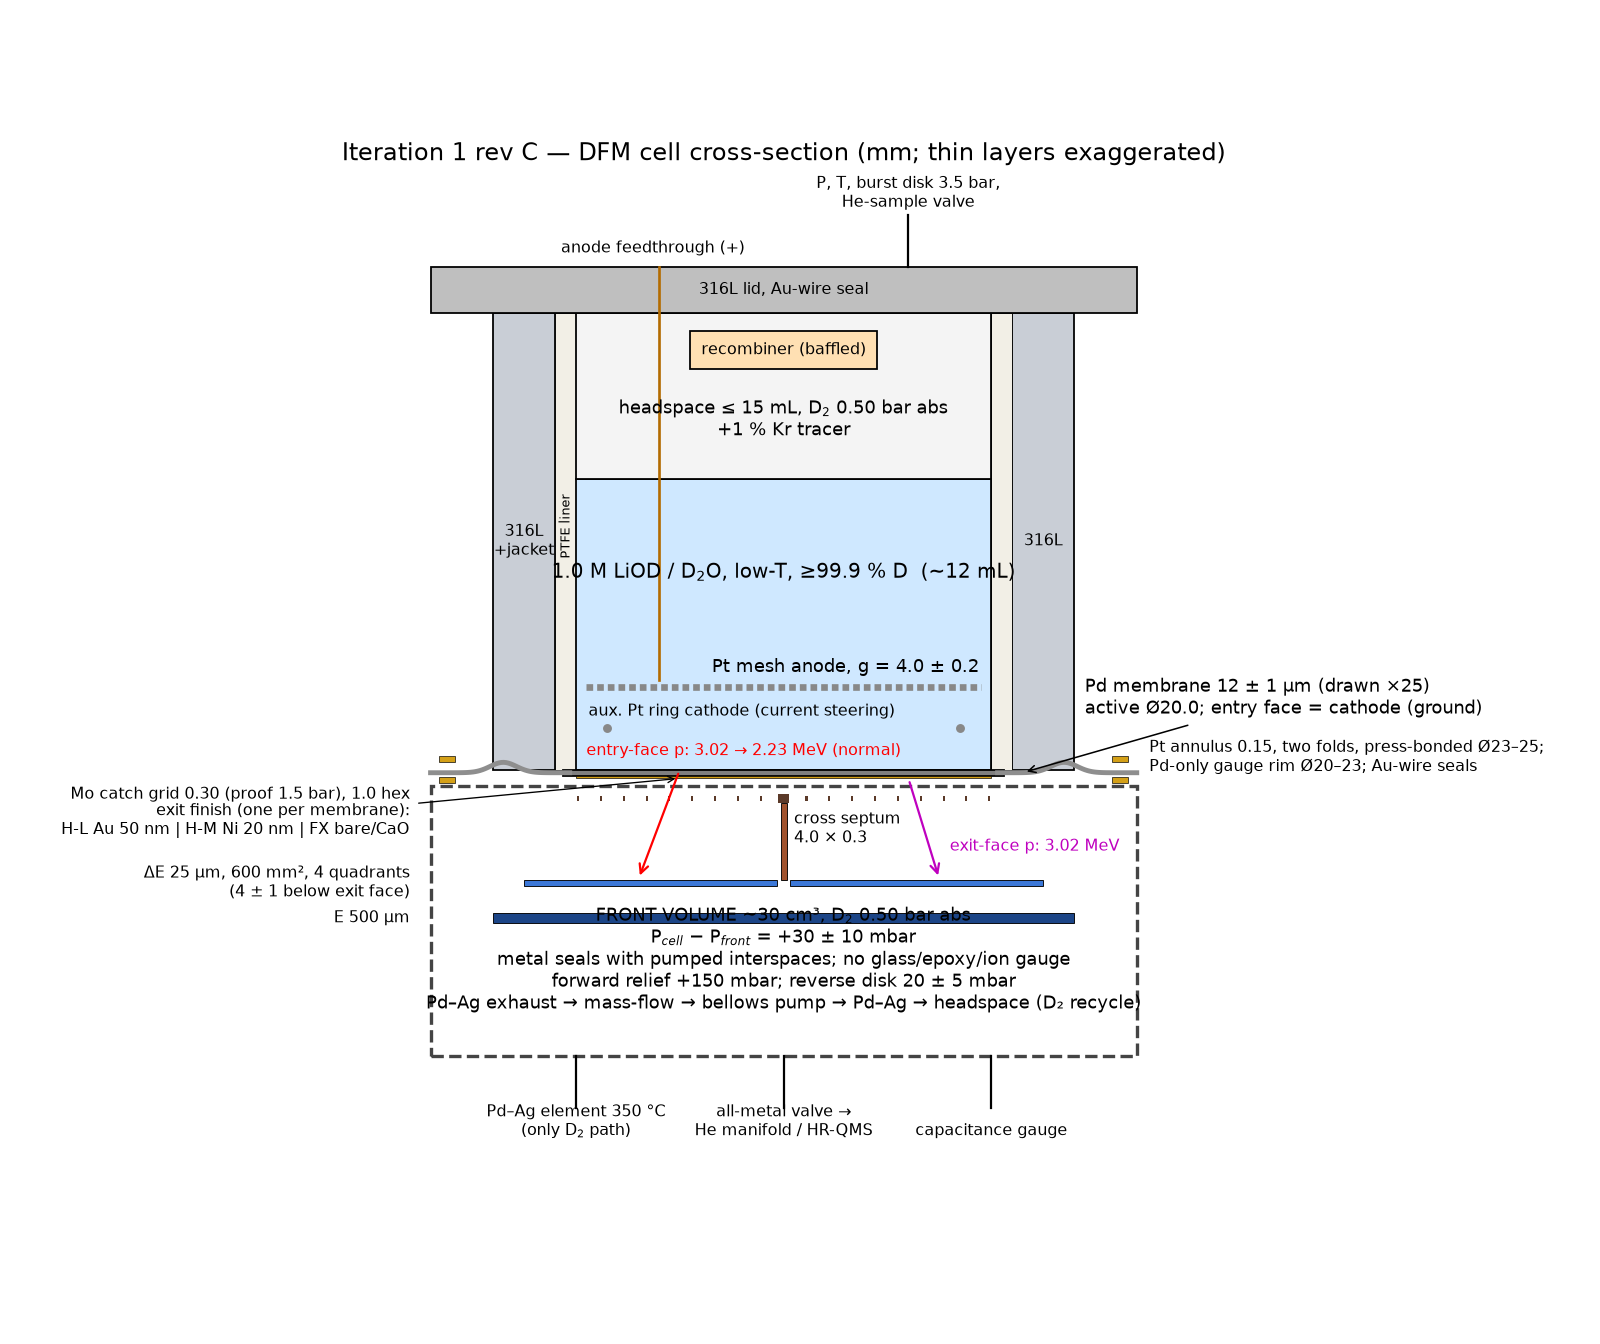
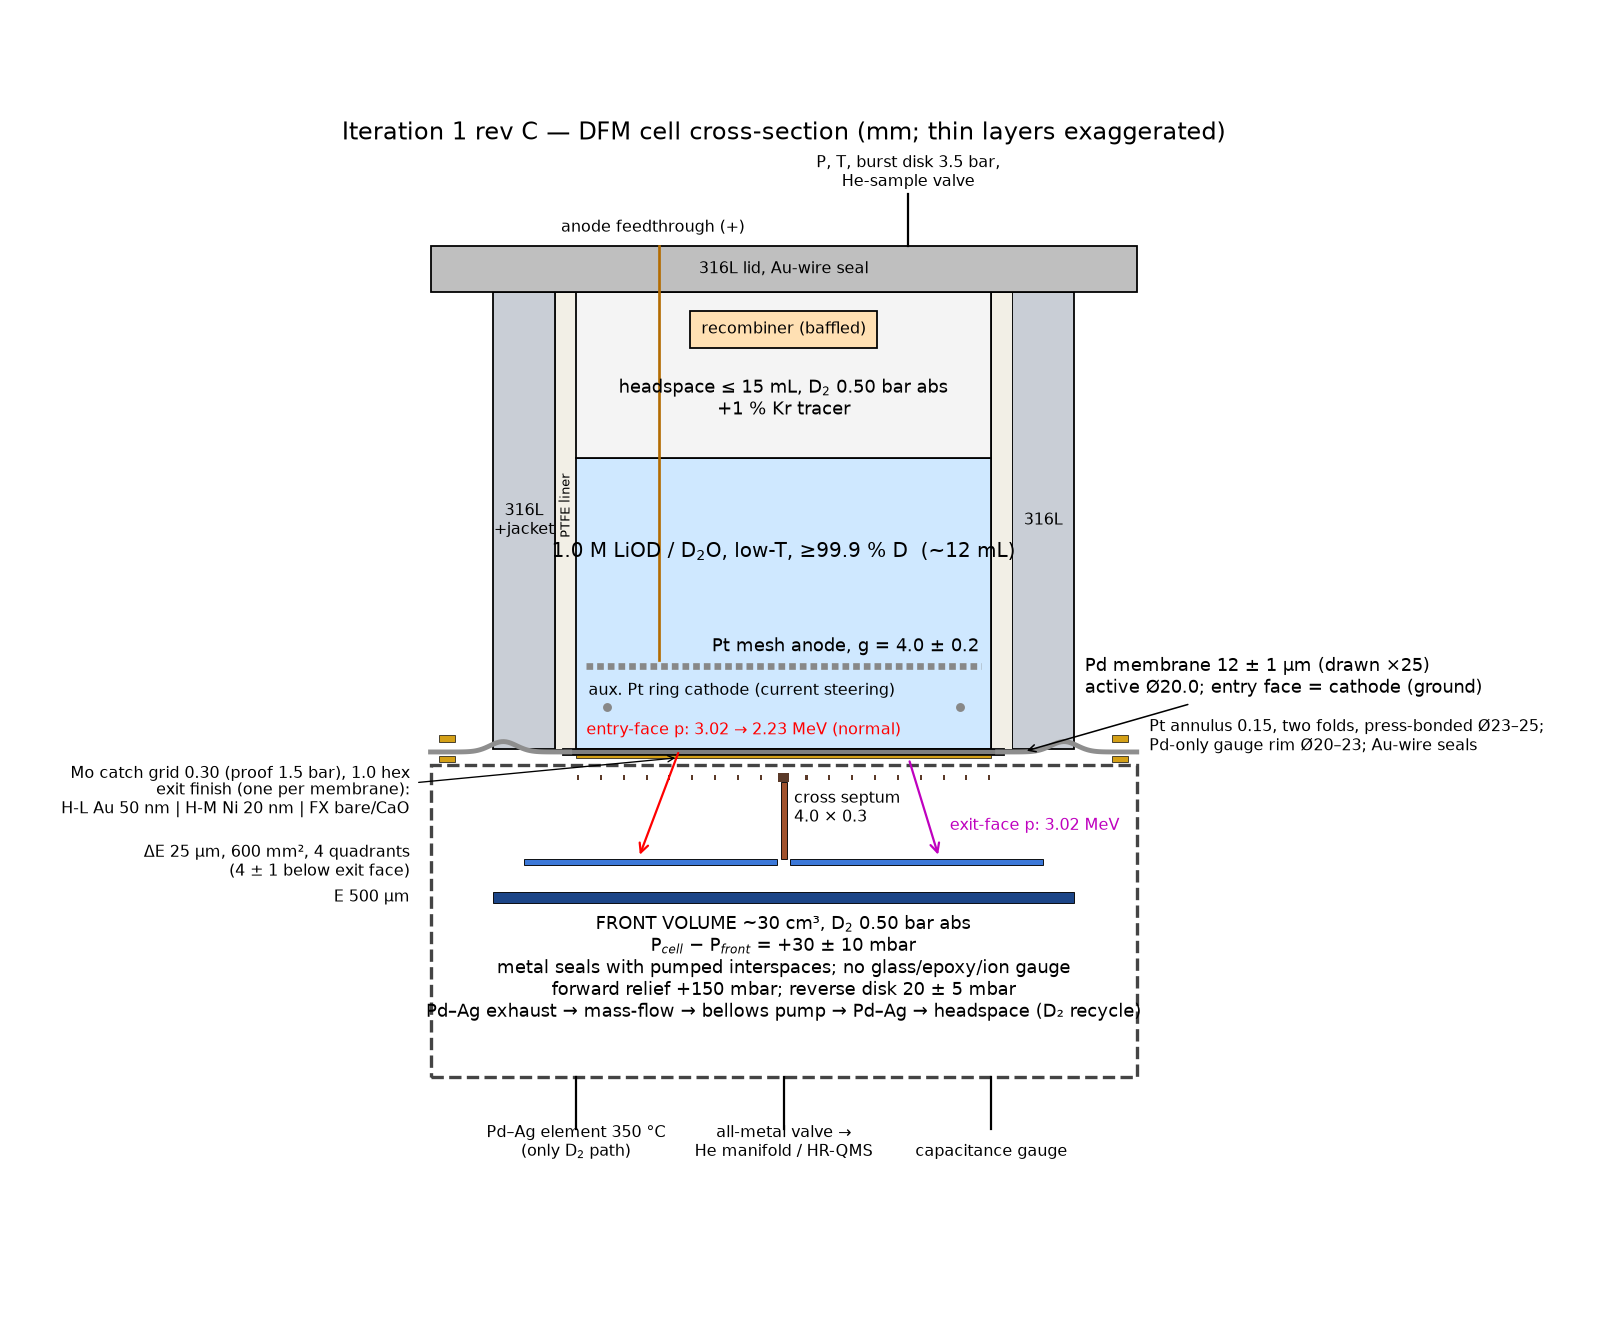
Drawing: clear front-volume label from detector
Claude-Session: https://claude.ai/code/session_01UhtcJJuepH5roxPVCdThz4

Changed region(s): [[0.0312, 0.4688, 0.9688, 0.875], [0.2188, 0.0938, 0.7812, 0.4375], [0.625, 0.375, 0.6562, 0.4062]]

diff --git a/sim/design_iter1_drawing.py b/sim/design_iter1_drawing.py
@@ -80,14 +80,14 @@ def cell_section():
     ax.text(-18, y_de + 0.15, "ΔE 25 µm, 600 mm², 4 quadrants\n(4 ± 1 below exit face)", fontsize=7, ha="right", va="center")
     box(ax, -14, y_de - 1.8, 28, 0.5, "#1c4587", lw=0.4)
     ax.text(-18, y_de - 1.55, "E 500 µm", fontsize=7, ha="right", va="center")
-    box(ax, -R - wall - 3, -13.5, 2 * (R + wall + 3), 13.0, "none", ec="#444", lw=1.5, ls="--")
-    ax.text(0, -11.2, "FRONT VOLUME ~30 cm³, D$_2$ 0.50 bar abs\nP$_{cell}$ − P$_{front}$ = +30 ± 10 mbar\n"
+    box(ax, -R - wall - 3, -15.5, 2 * (R + wall + 3), 15.0, "none", ec="#444", lw=1.5, ls="--")
+    ax.text(0, -12.6, "FRONT VOLUME ~30 cm³, D$_2$ 0.50 bar abs\nP$_{cell}$ − P$_{front}$ = +30 ± 10 mbar\n"
             "metal seals with pumped interspaces; no glass/epoxy/ion gauge\nforward relief +150 mbar; reverse disk 20 ± 5 mbar\nPd–Ag exhaust → mass-flow → bellows pump → Pd–Ag → headspace (D₂ recycle)",
             ha="center", fontsize=8)
     for xp, lab in [(-10, "Pd–Ag element 350 °C\n(only D$_2$ path)"), (0, "all-metal valve →\nHe manifold / HR-QMS"),
                     (10, "capacitance gauge")]:
-        ax.plot([xp, xp], [-13.5, -16], color="k", lw=1)
-        ax.text(xp, -17.3, lab, ha="center", fontsize=7)
+        ax.plot([xp, xp], [-15.5, -18], color="k", lw=1)
+        ax.text(xp, -19.3, lab, ha="center", fontsize=7)
 
     # proton tracks: exit-face and entry-face origin
     ax.annotate("", xy=(-7, y_de + 0.3), xytext=(-5, 0.3), arrowprops=dict(arrowstyle="->", color="r", lw=1))
@@ -96,7 +96,7 @@ def cell_section():
     ax.text(8.0, -3.6, "exit-face p: 3.02 MeV", color="m", fontsize=7)
 
     ax.set_xlim(-34, 34)
-    ax.set_ylim(-19, 29)
+    ax.set_ylim(-21, 29)
     ax.set_aspect("equal")
     ax.axis("off")
     ax.set_title("Iteration 1 rev C — DFM cell cross-section (mm; thin layers exaggerated)", fontsize=11)
